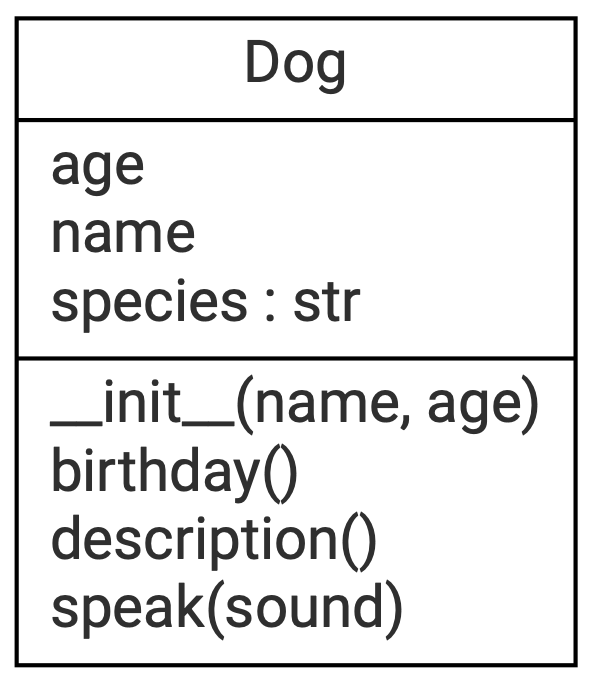
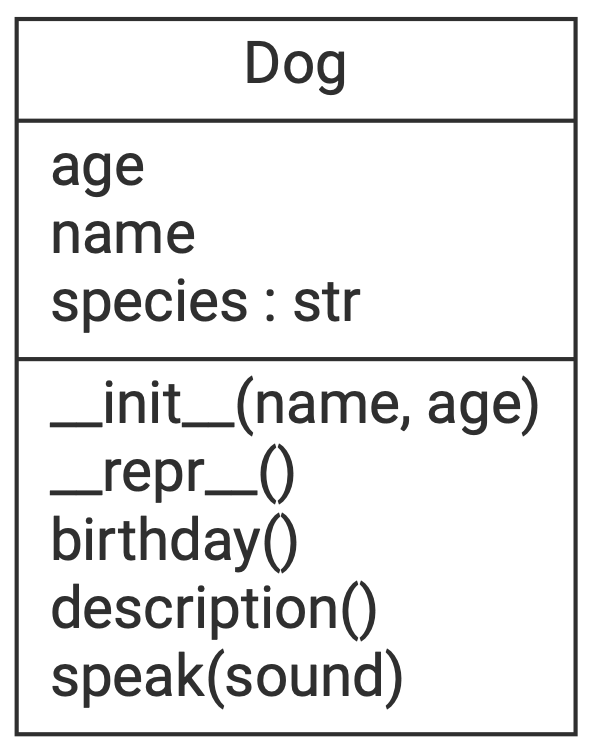
Updated: UML class diagram style.

Changed region(s): [[0.0, 0.0, 1.0, 0.9825]]

diff --git a/uml-class-diagram-pyreverse/style_uml_class_diagram.py b/uml-class-diagram-pyreverse/style_uml_class_diagram.py
@@ -1,18 +1,42 @@
 from graphviz import Source
 import re
+import argparse
 
-FILENAME = "classes.dot"
 
-FONTNAME = "Roboto-Regular"
-FONTCOLOR = "#2F2F2F"
+def add_style(filename: str) -> str:
+    FONTNAME = "Roboto-Regular"
+    FONTCOLOR = "#2F2F2F"
+    SHAPECOLOR = "#2F2F2F"
 
-MARK = '"'
+    MARK = '"'
 
-style = fr"\1fontname={MARK}{FONTNAME}{MARK}, fontcolor={MARK}{FONTCOLOR}{MARK}, "
+    style = fr"\1color={MARK}{SHAPECOLOR}{MARK}, fontname={MARK}{FONTNAME}{MARK}, fontcolor={MARK}{FONTCOLOR}{MARK}, "
 
-s = Source.from_file(FILENAME).source
+    s = Source.from_file(filename).source
 
-s = re.sub(r"(\[)(?=label)", style, s)
+    s = re.sub(r"(\[)(?=label)", style, s)
 
-with open(FILENAME, "w") as dot_file:
-    dot_file.write(s)
+    with open(filename, "w") as dot_file:
+        dot_file.write(s)
+
+    return "\n\N{sparkles} \N{memo} Done! \N{sparkles}\n"
+
+
+if __name__ == "__main__":
+    FILENAME = "classes.dot"
+
+    parser = argparse.ArgumentParser(
+        description="Style the UML class diagram generated with Pyreverse.",
+        epilog="Powered by Graphviz and Pyreverse.",
+    )
+
+    parser.add_argument(
+        "-f",
+        "--filename",
+        help="The filename of the UML class diagram DOT file.",
+        default=FILENAME,
+    )
+
+    args = parser.parse_args()
+
+    print(add_style(args.filename))

diff --git a/uml-class-diagram-pyreverse/OOP.py b/uml-class-diagram-pyreverse/OOP.py
@@ -13,3 +13,11 @@ class Dog:
 
     def birthday(self) -> None:
         self.age += 1
+
+    def __repr__(self) -> str:
+        return f"{self.__class__.__name__}({self.name}, {self.age})\nat {hex(id(self))}"
+
+
+dog = Dog("Canis", 5)
+
+print(dog)
